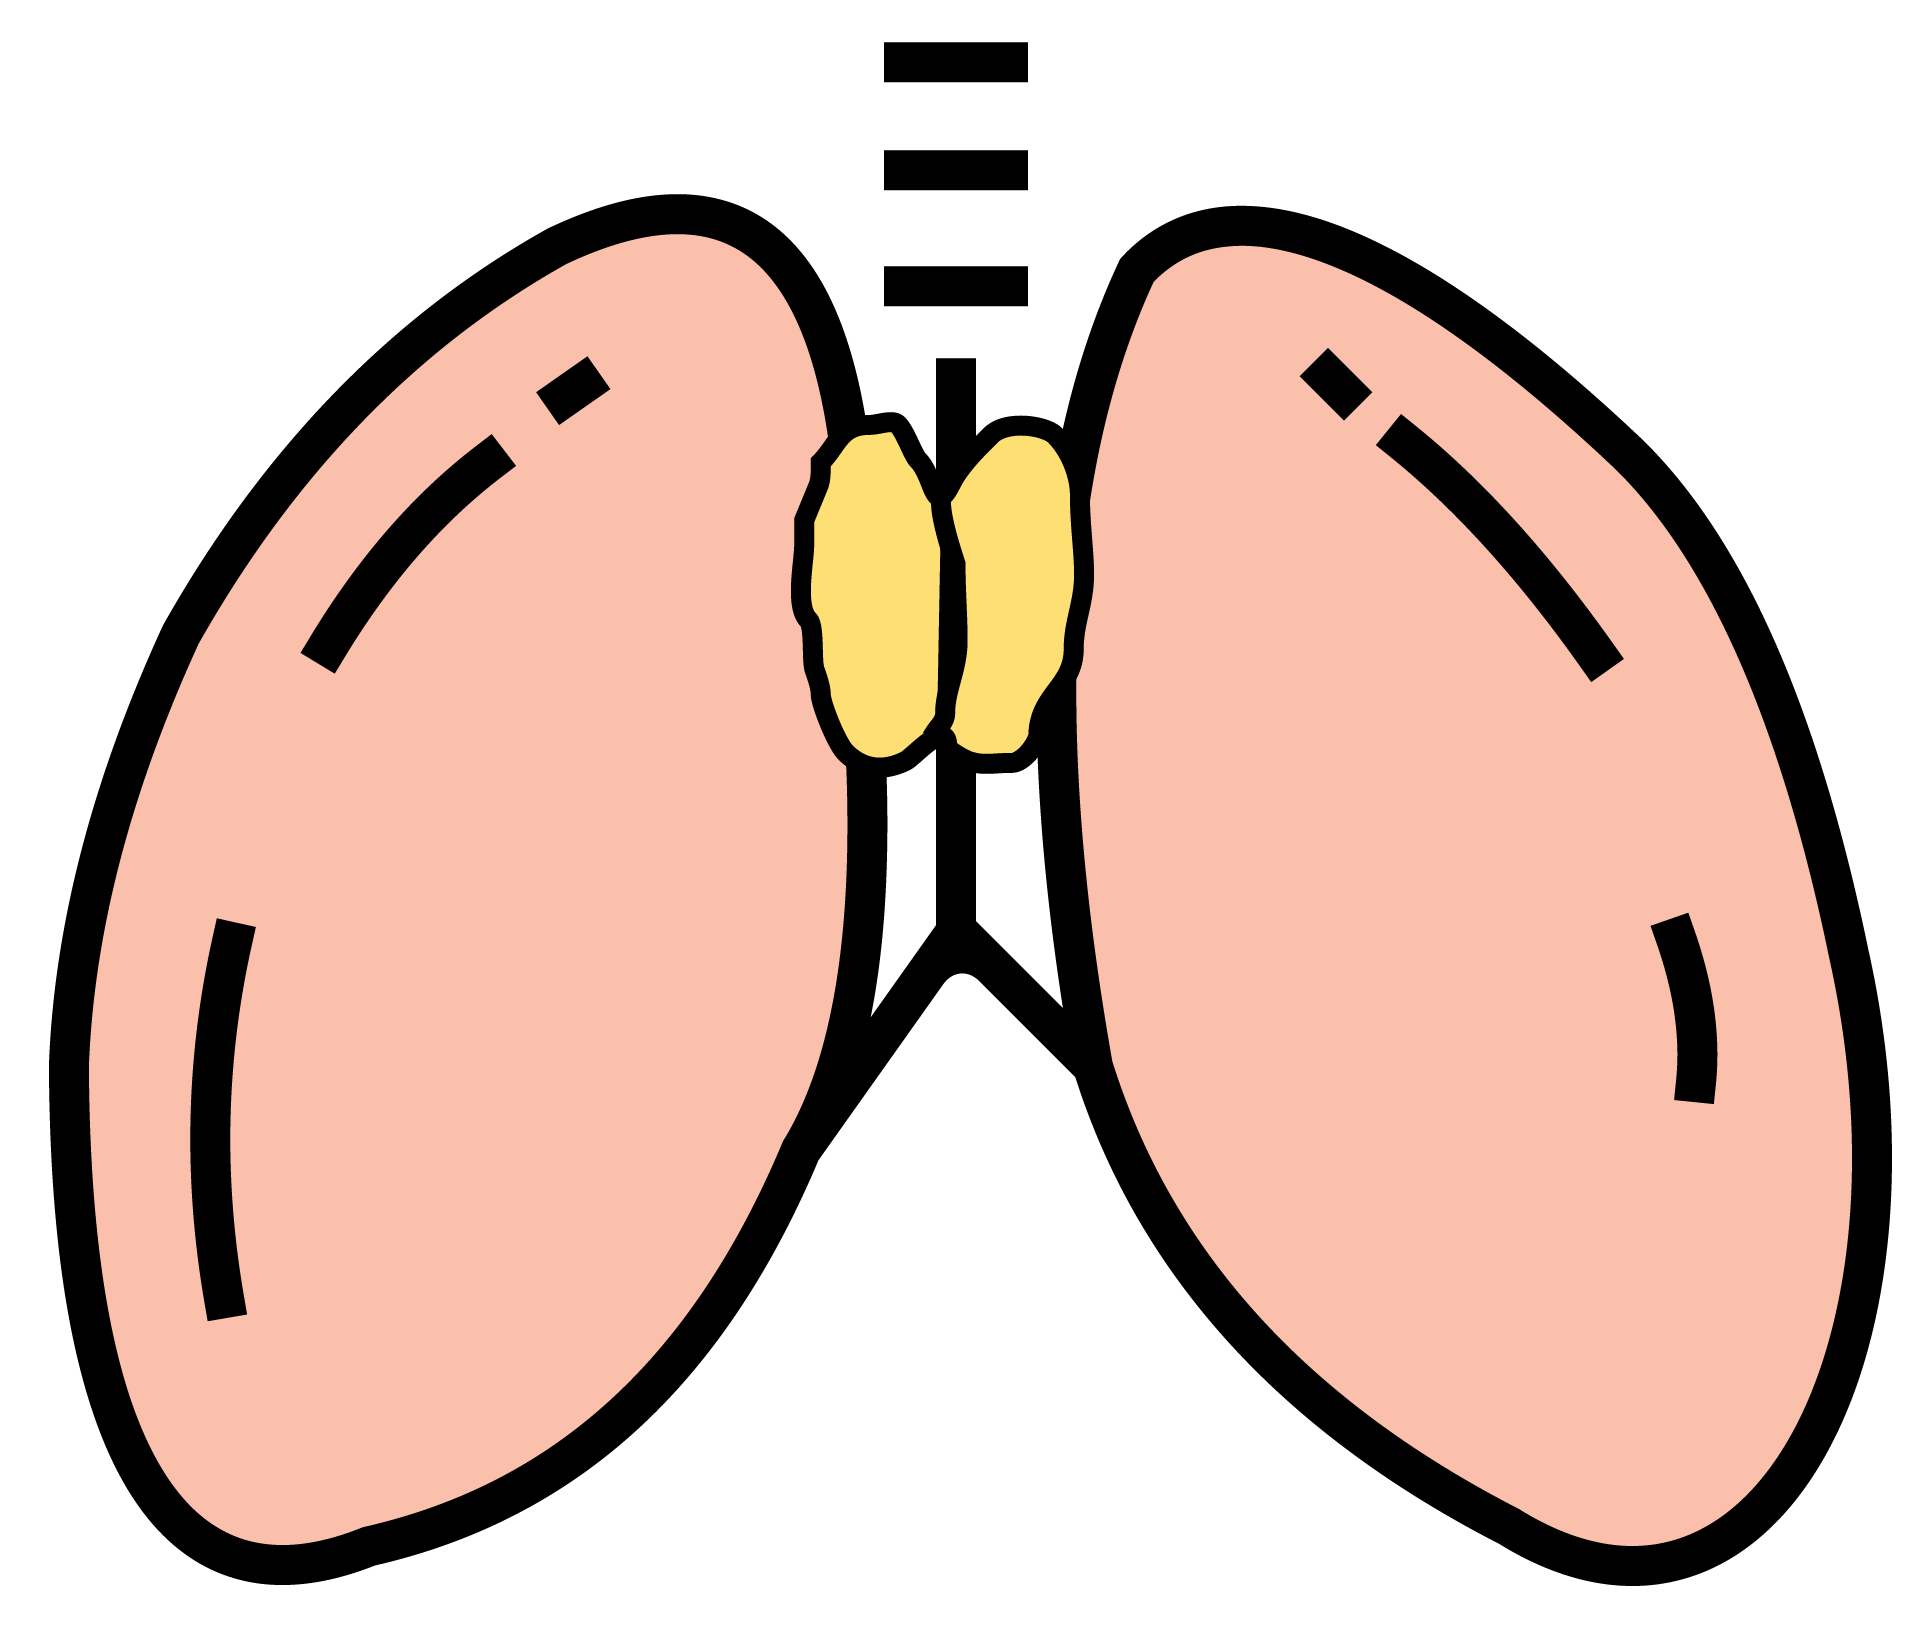
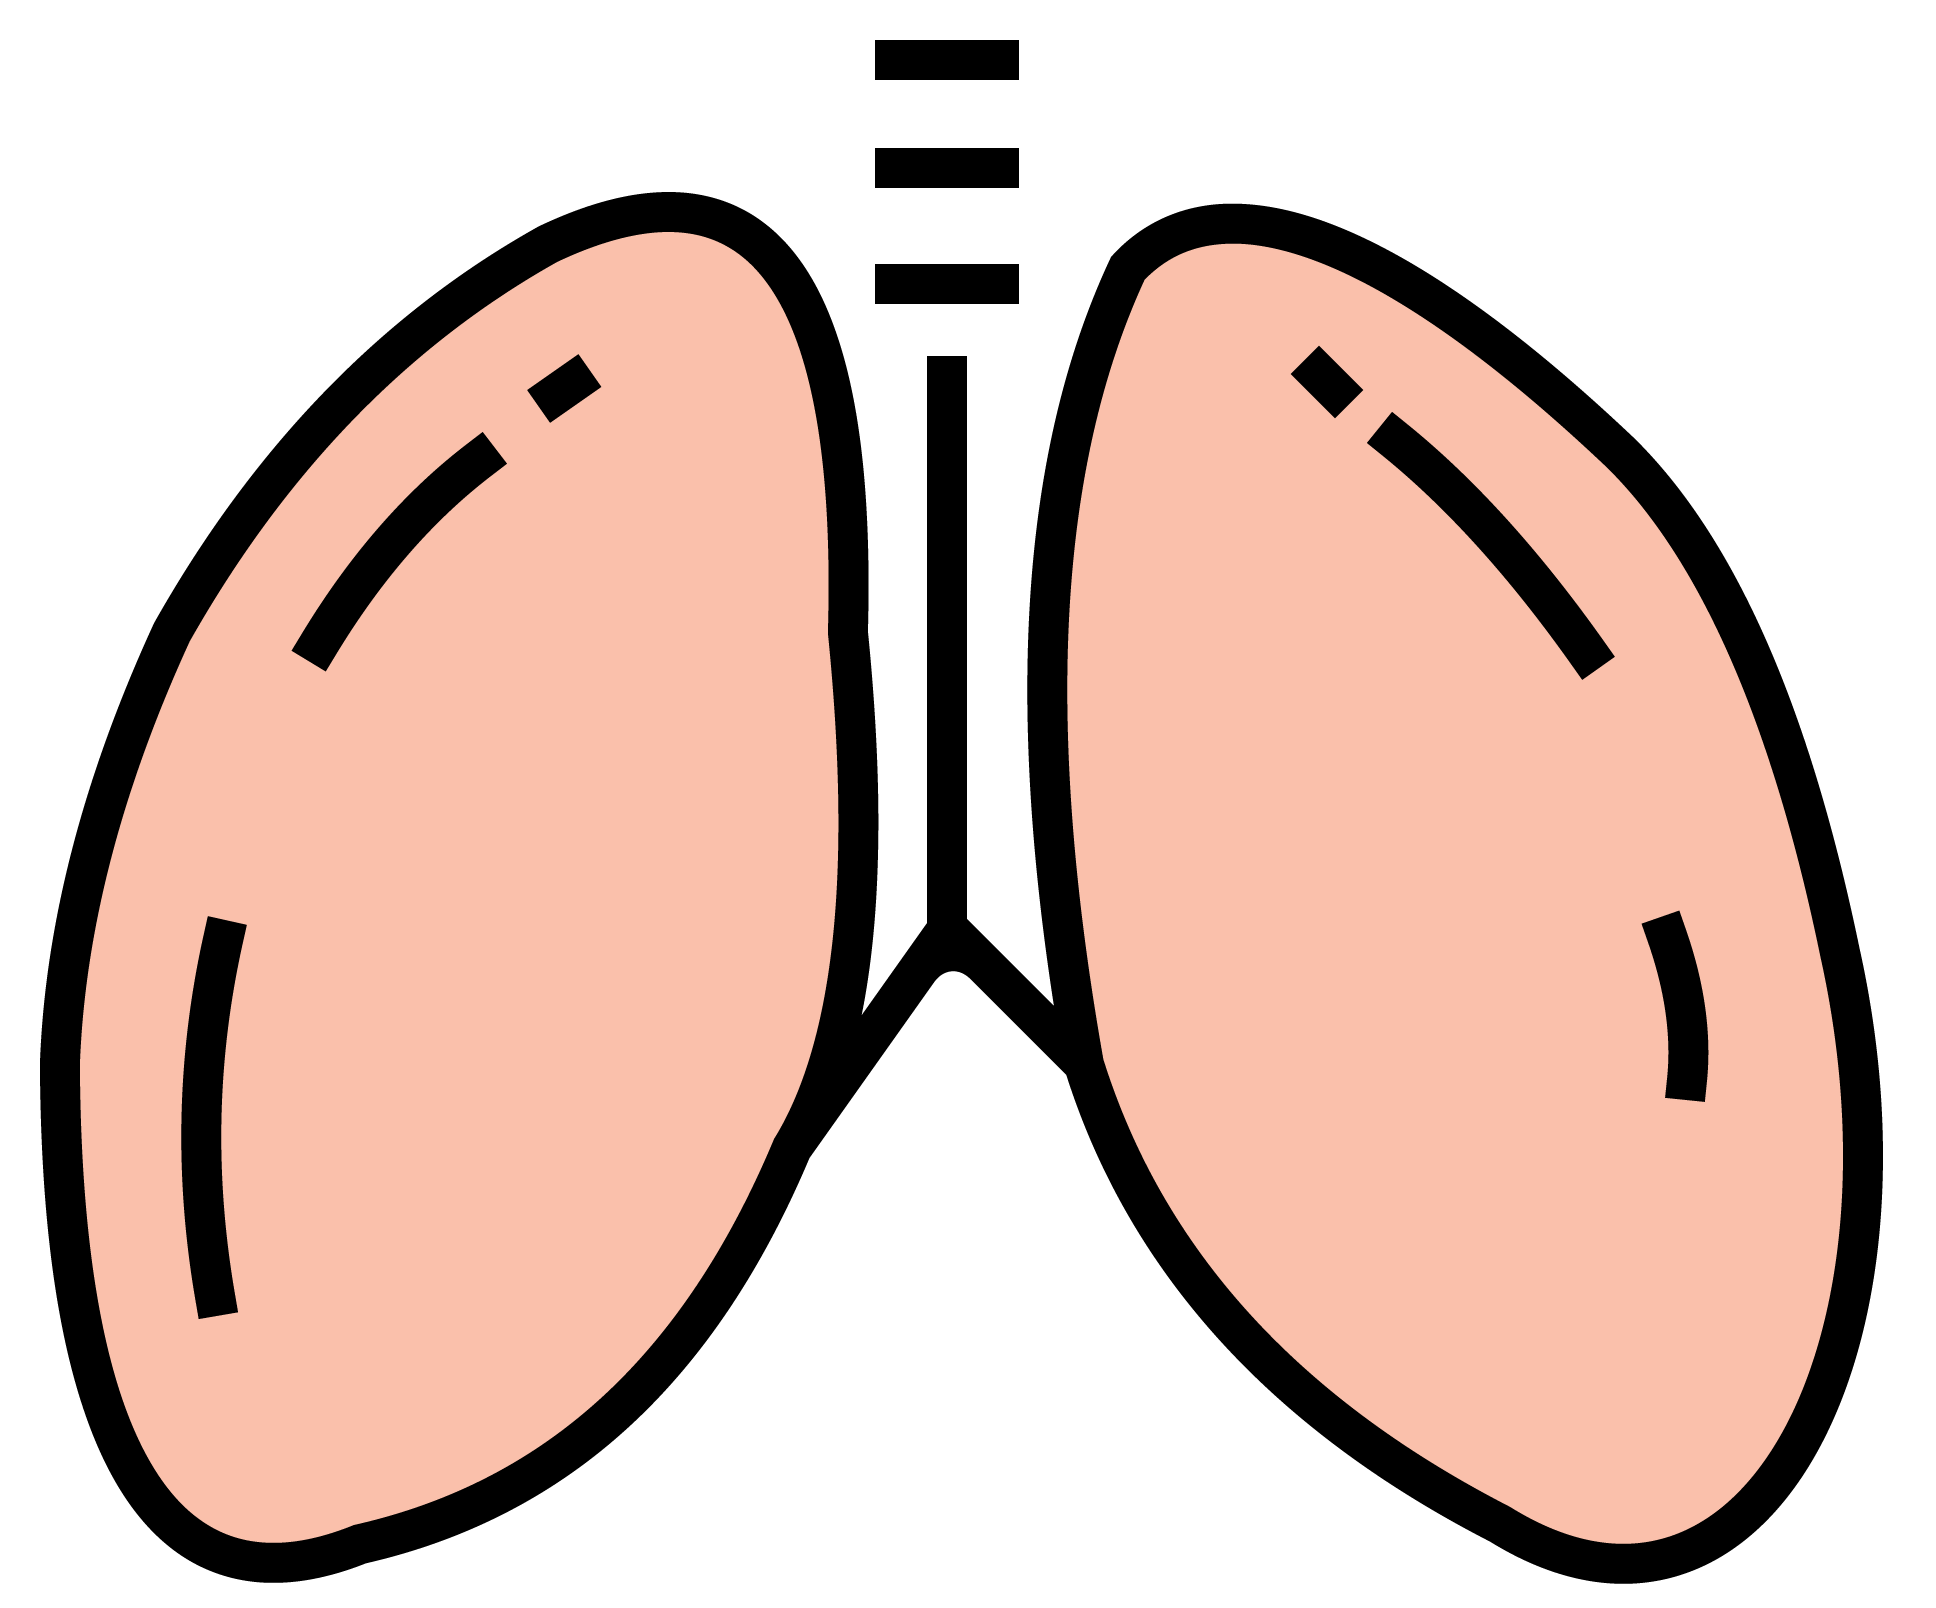
final adjusting

diff --git a/PlaygroundBook/Sources/Scenes/Page5Cont.swift b/PlaygroundBook/Sources/Scenes/Page5Cont.swift
@@ -54,4 +54,73 @@ class Page5Cont: SKScene {
         }
         return size
     }
+    
+    func activateThymus(){
+        self.nodeImage.run(SKAction.setTexture(SKTexture(imageNamed: "lungTimo")))
+    }
+    
+    func produceWhiteBloodCells(){
+        for _ in 0...45 {
+            let blood = SKSpriteNode(texture: SKTexture(imageNamed: "blood"), size: CGSize(width: 20, height: 20))
+            blood.zPosition = 3
+            blood.position =  CGPoint(x: self.nodeImage.frame.midX, y: self.nodeImage.frame.midY + CGFloat(30))
+            let pos = randomPosition(inFrame: self.nodeImage.frame)
+            let move = SKAction.move(to:pos,duration:10)
+            let fadeOut = SKAction.fadeOut(withDuration: 10)
+            let group = SKAction.group([move, fadeOut])
+            let removed = SKAction.run {
+                blood.removeFromParent()
+            }
+            blood.run(SKAction.sequence([group, removed]), withKey:"moving")
+            self.addChild(blood)
+        }
+    }
+    
+    func addEmojis(){
+        
+        let texture = SKTexture(imageNamed: "strength\(Int.random(in: 0...5))")
+        let emoji = SKSpriteNode(texture: texture, size: CGSize(width: 30, height: 30))
+        
+        let actualX = random(min: -size.width/2, max: size.width/2)
+    
+        emoji.position = CGPoint(x: actualX, y: size.width + emoji.size.width/2)
+        emoji.zPosition = 3
+        
+        // Add the monster to the scene
+        addChild(emoji)
+        
+        // Determine speed of the monster
+        let actualDuration = random(min: CGFloat(2.0), max: CGFloat(4.0))
+        
+        // Create the actions
+        let actionMove = SKAction.move(to: CGPoint(x: actualX , y: -size.height/2), duration: TimeInterval(actualDuration))
+        let actionMoveDone = SKAction.removeFromParent()
+        emoji.run(SKAction.sequence([actionMove, actionMoveDone]))
+    }
+    
+    func randomPosition(inFrame frame: CGRect) -> CGPoint{
+        let width = frame.width/3.3
+        let heigth = frame.height/2
+        let x = CGFloat.random(in: -width..<width)
+        let y = CGFloat.random(in: -heigth..<heigth)
+        
+        return CGPoint(x: x, y: y)
+    }
+    
+    func strengthenImmuneSystem(){
+        self.run(SKAction.repeat(SKAction.sequence([
+            SKAction.run(addEmojis),
+            SKAction.wait(forDuration: 0.01)
+            ]), count: 100))
+    }
+    
+    func random() -> CGFloat {
+        return CGFloat(Float(arc4random()) / 0xFFFFFFFF)
+    }
+    
+    func random(min: CGFloat, max: CGFloat) -> CGFloat {
+        return random() * (max - min) + min
+    }
+    
+    
 }

diff --git a/PlaygroundBook/Sources/Controllers/InformationViewController.swift b/PlaygroundBook/Sources/Controllers/InformationViewController.swift
@@ -26,7 +26,8 @@ public class InformationViewController: UIViewController, PlaygroundLiveViewSafe
         label.font = UIFont(name: "BalooChettan-Regular", size: 12)
         label.textColor = UIColor(red: 29/255, green: 38/255, blue: 49/255, alpha: 1.0)
         label.textAlignment = .center
-        label.font = UIFont.systemFont(ofSize: 12)
+        label.font = UIFont(name: "BalooChettan-Regular", size: 12)
+        label.textColor = UIColor.lightGray
         label.translatesAutoresizingMaskIntoConstraints = false
         return label
     }()
@@ -36,8 +37,8 @@ public class InformationViewController: UIViewController, PlaygroundLiveViewSafe
         label.text = ""
         label.numberOfLines = 0
         label.sizeToFit()
-        label.font = UIFont.boldSystemFont(ofSize: 16)
-        label.textColor = .black
+        label.font = UIFont(name: "BalooChettan-Regular", size: 16)
+        label.textColor = .gray
         label.textAlignment = .center
         label.translatesAutoresizingMaskIntoConstraints = false
         return label
@@ -45,12 +46,11 @@ public class InformationViewController: UIViewController, PlaygroundLiveViewSafe
     
     let titleHug: UILabel = {
         let label = UILabel()
-        label.font = UIFont(name: "BalooChettan-Regular", size: 20)
+        label.font = UIFont(name: "BalooChettan-Regular", size: 22)
         label.text = ""
         label.numberOfLines = 0
         label.sizeToFit()
-        label.font = UIFont.boldSystemFont(ofSize: 20)
-        label.textColor = .black
+        label.textColor = .gray
         label.textAlignment = .center
         label.translatesAutoresizingMaskIntoConstraints = false
         return label
@@ -60,6 +60,7 @@ public class InformationViewController: UIViewController, PlaygroundLiveViewSafe
         let arrow = UIImageView()
         arrow.image = UIImage(named: "arrow.png")
         arrow.contentMode = .scaleAspectFit
+        arrow.isUserInteractionEnabled = true
         arrow.translatesAutoresizingMaskIntoConstraints = false
         return arrow
     }()

diff --git a/PlaygroundBook/Chapters/Chapter1.playgroundchapter/Pages/page5.playgroundpage/Contents.swift b/PlaygroundBook/Chapters/Chapter1.playgroundchapter/Pages/page5.playgroundpage/Contents.swift
@@ -18,9 +18,18 @@ var sawLung = false
 //PlaygroundPage.current.needsIndefiniteExecution = true
 
 
-func seeLung() {
-    proxy?.send(.string("seeLung"))
+func visitLung() {
+    proxy?.send(.string("visitLung"))
     sawLung = true
+}
+func activateThymus() {
+    proxy?.send(.string("activateThymus"))
+}
+func produceWhiteBloodCells() {
+    proxy?.send(.string("produceWhiteBloodCells"))
+}
+func strengthenImmuneSystem() {
+    proxy?.send(.string("strengthenImmuneSystem"))
 }
 //#-end-hidden-code
 /*:
@@ -35,24 +44,22 @@ func seeLung() {
  
    When we give and receive a hug we can increase our resistance to viruses 👾 and respond better to the effects of exposure, because when we contract the thorax a gland called **Thymus** is activated. And it is responsible for the production of white blood cells, which helps to strengthen the immune system. Is not that incredible?😱
  
-
  **Goal:** Strengthen the immune system by giving a tiiight bear hug 🐻
  
- 1. Visit the brain to see what happens there
- 2. Activate the brain region called hypothalamus
- 3. With the hypothalamus activated release the hormone called oxytocin
- 4. Decrease levels of anxiety and be happy! 🤩
+ 1. Come and visit the lung with me 😃
+ 2. Activate the **Thymus** gland
+ 3. Produce white blood cells
+ 4. Strengthen the immune system 💪🏼😎
  
- **On every step tap** Run my code to show the changes you make
+ **On every step tap** ``Run my code`` to show the changes you make
  [next page](@next)
  */
 //#-end-hidden-code
 //#-code-completion(everything, hide)
-//#-code-completion(identifier, show, releaseOxytocin(), activateHypothalamus(), decreaseAnxiety(), visitBrain())
+//#-code-completion(identifier, show, visitLung(), produceWhiteBloodCells(), activateThymus(), strengthenImmuneSystem())
 //#-editable-code Tap to write your code
 //#-end-editable-code
 //#-hidden-code
-
 
 //#-hidden-code
 if !sawLung {

diff --git a/PlaygroundBook/Sources/Controllers/Page5ViewController.swift b/PlaygroundBook/Sources/Controllers/Page5ViewController.swift
@@ -47,11 +47,27 @@ public class Page5ViewController: UIViewController, PlaygroundLiveViewSafeAreaCo
 extension Page5ViewController: PlaygroundLiveViewMessageHandler{
     
     public func receive(_ message: PlaygroundValue) {
-        guard case let .string(seeLung) = message else { return }
-        
-        if seeLung == "seeLung" {
+        guard case let .string(command) = message else { return }
+
+        switch command {
+        case "visitLung":
             guard let scene = self.scene as? Page5 else {return}
-            scene.seeLung()
+            scene.visitLung()
+            break
+        case "activateThymus":
+            guard let sceneCont = self.scene as? Page5Cont else {return}
+            sceneCont.activateThymus()
+            break
+        case "produceWhiteBloodCells":
+            guard let sceneCont = self.scene as? Page5Cont else {return}
+            sceneCont.produceWhiteBloodCells()
+            break
+        case "strengthenImmuneSystem":
+            guard let sceneCont = self.scene as? Page5Cont else {return}
+            sceneCont.strengthenImmuneSystem()
+            break
+        default:
+            break
         }
     }
 }
@@ -67,6 +83,7 @@ extension Page5ViewController: PresentingProtocol {
     
     public func changeTo(scene: SKScene) {
         skviewPage5.presentScene(scene)
+        self.scene = scene
     }
 }
 

diff --git a/PlaygroundBook/Sources/Scenes/Page5.swift b/PlaygroundBook/Sources/Scenes/Page5.swift
@@ -51,13 +51,13 @@ class Page5: SKScene {
         return size
     }
     
-    func seeLung(){
+    func visitLung(){
         let zoomInAction = SKAction.repeatForever(SKAction.scale(by: 0.4, duration: 1))
         let moveByX = SKAction.moveTo(x: nodeImage.frame.midX - 20, duration: 1)
-        let moveByY = SKAction.moveTo(y: nodeImage.frame.midY - CGFloat(80), duration: 1)
+        let moveByY = SKAction.moveTo(y: nodeImage.frame.midY - CGFloat(100), duration: 1)
         cameraNode.run(SKAction.group([moveByX, moveByY, zoomInAction ]))
         
-        DispatchQueue.main.asyncAfter(deadline: .now() + 3.5) {
+        DispatchQueue.main.asyncAfter(deadline: .now() + 3.8) {
             let scene = Page5Cont.init(size: self.size)
             scene.backgroundColor = SKColor(red: 99/255, green: 18/255, blue: 4/255, alpha: 1)
             guard let skview = self.view else {return}
@@ -65,6 +65,8 @@ class Page5: SKScene {
             self.delegatePresenting.changeTo(scene: scene)
         }
     }
+    
+    
     
 }
 

diff --git a/PlaygroundBook/Sources/Controllers/Page3ViewController.swift b/PlaygroundBook/Sources/Controllers/Page3ViewController.swift
@@ -56,8 +56,7 @@ extension Page3ViewController: PlaygroundLiveViewMessageHandler{
     
     public func receive(_ message: PlaygroundValue) {
         guard case let .string(command) = message else { return }
-        
-        
+    
         switch command {
         case "visitBrain":
             guard let scene = self.scene as? Page3 else {return}

diff --git a/PlaygroundBook/Sources/LiveViewSupport.swift b/PlaygroundBook/Sources/LiveViewSupport.swift
@@ -22,6 +22,6 @@ public func instantiateLiveView() -> PlaygroundLiveViewable {
 //        fatalError("LiveView.storyboard's initial scene is not a LiveViewController; please either update the storyboard or this function")
 //    }
 
-    return Page2ViewController()
+    return Page1ViewController()
 }
 

diff --git a/PlaygroundBook/Chapters/Chapter1.playgroundchapter/Pages/page1.playgroundpage/LiveView.swift b/PlaygroundBook/Chapters/Chapter1.playgroundchapter/Pages/page1.playgroundpage/LiveView.swift
@@ -19,7 +19,7 @@ import UIKit
 import SpriteKit
 import PlaygroundSupport
 
-//
+
 let fontURL = Bundle.main.url(forResource: "BalooChettan-Regular", withExtension: "ttf")
 CTFontManagerRegisterFontsForURL(fontURL! as CFURL, CTFontManagerScope.process, nil)
 
